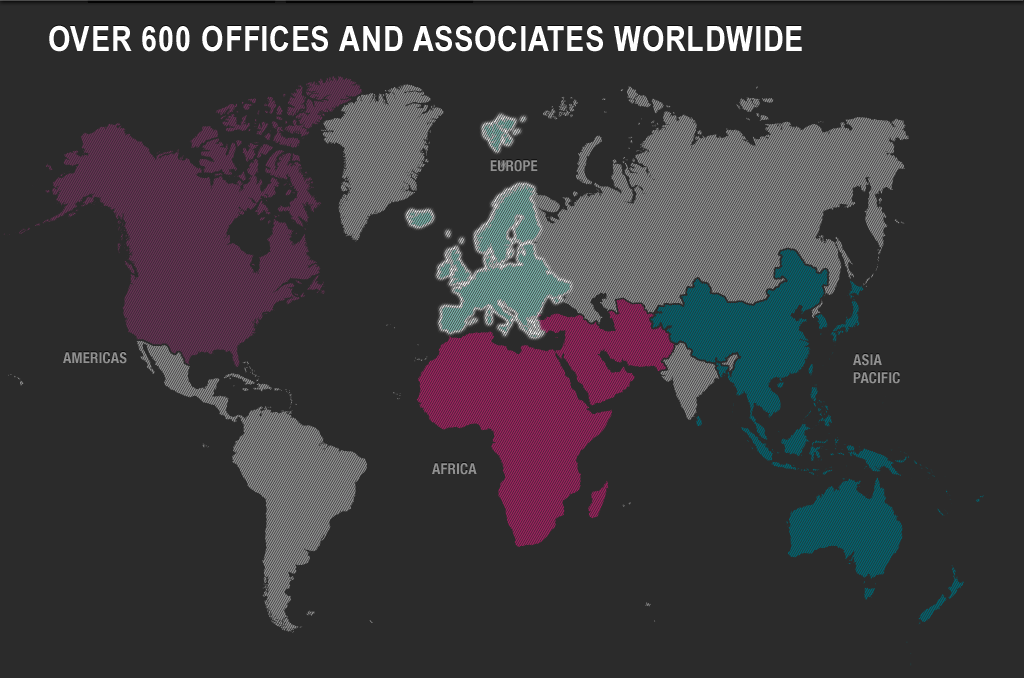
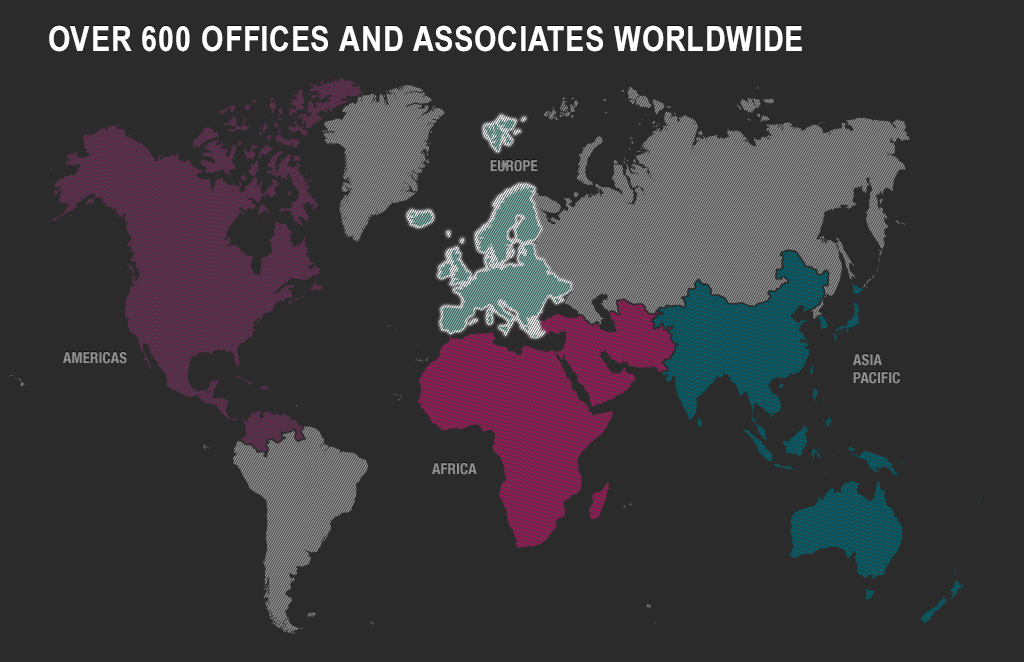
update 2

diff --git a/css/global.css b/css/global.css
@@ -177,6 +177,7 @@ h3 { font-size:20px; padding-bottom:10px; line-height:100%; }
 .indexContentBtnContainer .btn_pm img{margin-left: -36.5px; margin-top: -19px;}
 .indexContentBtnContainer .btn_fm img{margin-left: -36.5px; margin-top: -19px;}
 .indexContentBtnContainer .btn_gcr img{margin-left: -42.5px; margin-top: -19px;}
+.indexContentBtnContainer .btn_acc img{margin-left: -35px;margin-top: -19px;}
 .indexContentBtnContainer .btn_cityBriefings img{margin-left: -24px; margin-top: -19px;}
 .indexContentBtnContainer .btn_researchReports img{margin-left: -26.5px; margin-top: -19px;}
 .indexContentBtnContainer .btn_benchmarking img{margin-left: -37px;margin-top: -11px;}
@@ -359,11 +360,12 @@ h3 { font-size:20px; padding-bottom:10px; line-height:100%; }
 
 /*Asia starts*/
 .globalFootprintContainer #btnAsiaDiv{cursor:pointer;}
-.globalFootprintContainer .btnAsia{top:190px; left:704px; width:142px; height:142px; -webkit-transition:all 0.3s linear; -moz-transition:all 0.3s linear; -o-transition:all 0.3s linear; transition:all 0.3s linear; transition-delay: 0.3s;-moz-transition-delay: 0.3s; /* Firefox 4 */ -webkit-transition-delay: 0.3s; /* Safari and Chrome */ -o-transition-delay: 0.3s; /* Opera */ }
-.globalFootprintContainer .asiaDiv{box-shadow:-3px 0px 6px #000; width:0; height: 192px; overflow:hidden; position:absolute; right: 249px; top: 162px; z-index:10; -webkit-transition:width 0.3s linear; -moz-transition:width 0.3s linear; -o-transition:width 0.3s linear; transition:width 0.3s linear;}
-.globalFootprintContainer #btnAsiaDiv.active .btnAsia{width:212px; height:211px; top:154px; left:665px; -webkit-transition:all 0.3s linear; -moz-transition:all 0.3s linear; -o-transition:all 0.3s linear; transition:all 0.3s linear;}
-.globalFootprintContainer #btnAsiaDiv.active .asiaDiv{width:392px; transition-delay: 0.3s; -moz-transition-delay: 0.3s; /* Firefox 4 */ -webkit-transition-delay: 0.3s; /* Safari and Chrome */-o-transition-delay: 0.3s; /* Opera */}
-.globalFootprintContainer #btnAsiaDiv .countryContent{background:url(../images/whereWePlay/bg_countryDiv_content.png) no-repeat right; width:318px; height: 178px;float: right;padding: 15px 0 0 32px;}
+.globalFootprintContainer .btnAsia{top: 320px;left: 760px; width:142px; height:142px; -webkit-transition:all 0.3s linear; -moz-transition:all 0.3s linear; -o-transition:all 0.3s linear; transition:all 0.3s linear; transition-delay: 0.3s;-moz-transition-delay: 0.3s; /* Firefox 4 */ -webkit-transition-delay: 0.3s; /* Safari and Chrome */ -o-transition-delay: 0.3s; /* Opera */ }
+.globalFootprintContainer .asiaDiv{box-shadow:-3px 0px 6px #000; width:0; height: 192px; overflow:hidden; position:absolute; right: 179px; top: 310px; z-index:10; -webkit-transition:width 0.3s linear; -moz-transition:width 0.3s linear; -o-transition:width 0.3s linear; transition:width 0.3s linear;}
+.globalFootprintContainer #btnAsiaDiv.active .btnAsia{width:212px; height:211px; top: 300px;
+left: 730px; -webkit-transition:all 0.3s linear; -moz-transition:all 0.3s linear; -o-transition:all 0.3s linear; transition:all 0.3s linear;}
+.globalFootprintContainer #btnAsiaDiv.active .asiaDiv{width: 502px;transition-delay: 0.3s; -moz-transition-delay: 0.3s; /* Firefox 4 */ -webkit-transition-delay: 0.3s; /* Safari and Chrome */-o-transition-delay: 0.3s; /* Opera */}
+.globalFootprintContainer #btnAsiaDiv .countryContent{background:url(../images/whereWePlay/bg_countryDiv_content.png) no-repeat right; width: 432px; height: 178px;float: right;padding: 15px 0 0 32px;}
 /*Asia ends*/
 
 /*Europe starts*/
@@ -378,7 +380,7 @@ h3 { font-size:20px; padding-bottom:10px; line-height:100%; }
 /*UK starts*/
 .globalFootprintContainer #btnUKDiv{cursor:pointer;}
 .globalFootprintContainer .btnUK{top:192px; left:355px; width:142px; height:142px; -webkit-transition:all 0.3s linear; -moz-transition:all 0.3s linear; -o-transition:all 0.3s linear; transition:all 0.3s linear; transition-delay: 0.3s;-moz-transition-delay: 0.3s; /* Firefox 4 */ -webkit-transition-delay: 0.3s; /* Safari and Chrome */ -o-transition-delay: 0.3s; /* Opera */ }
-.globalFootprintContainer .ukDiv{box-shadow:-3px 0px 6px #000; width:0; height: 192px; overflow:hidden; position:absolute; left: 439px; top: 158px;z-index:10; -webkit-transition:width 0.3s linear; -moz-transition:width 0.3s linear; -o-transition:width 0.3s linear; transition:width 0.3s linear;}
+.globalFootprintContainer .ukDiv{box-shadow:-3px 0px 6px #000; width:0; height: 192px; overflow:hidden; position:absolute; left: 429px;top: 160px;z-index:10; -webkit-transition:width 0.3s linear; -moz-transition:width 0.3s linear; -o-transition:width 0.3s linear; transition:width 0.3s linear;}
 .globalFootprintContainer #btnUKDiv.active .btnUK{width:212px; height:211px; top:150px; left:335px; -webkit-transition:all 0.3s linear; -moz-transition:all 0.3s linear; -o-transition:all 0.3s linear; transition:all 0.3s linear;}
 .globalFootprintContainer #btnUKDiv.active .ukDiv{width:282px; transition-delay: 0.3s; -moz-transition-delay: 0.3s; /* Firefox 4 */ -webkit-transition-delay: 0.3s; /* Safari and Chrome */-o-transition-delay: 0.3s; /* Opera */}
 .globalFootprintContainer #btnUKDiv .closeBtn{background:url(../images/whereWePlay/btn_close_right.png) no-repeat 15px 90px #2b2b2b; width:42px; height:201px; position:absolute; left:240px !important; top:0;}
@@ -758,7 +760,7 @@ h3 { font-size:20px; padding-bottom:10px; line-height:100%; }
 .trackRecordLogoContainer{height:704px; background:#fff; float:left; width:880px;}
 #logoContent{padding:13px 0 0 8px; height:651px;}
 /*.trackRecordLogoContent{height:664px;}*/
-.trackRecordLogoContent{width:742px; position:relative; height:549px; padding:15px 0 15px 10px; background-color:#fff; float:left;}
+.trackRecordLogoContent{width:742px; position:relative; height:499px; padding:15px 0 15px 10px; background-color:#fff; float:left;}
 
 .trackRecordLogoContent .recordItem{display:block; float:left; margin:0 8px 15px 8px;cursor:pointer; position:relative; width:86px; height:66px;}
 .trackRecordLogoContent .recordItem .showMoveDiv{display:none;}
@@ -891,7 +893,7 @@ body.footprint-map #leftNavPanel{width:275px;}
 .ourTeamLogoContainer .logo_small{top:33px !important; right:21px !important;}
 #teamContent{height:704px;}
 .choiceOfViewContainer {
-    height: 32px;
+    height: 82px;
     margin-right: 35px;
     padding-top: 20px;
     position: relative;
@@ -1296,4 +1298,6 @@ body.footprint-map #leftNavPanel{width:275px;}
     font-size: 13px;
     font-weight: bold;
     color: #FDE651;
+    width: 470px;
+    text-align: left;
 }

diff --git a/where-we-play/global-footprint.html b/where-we-play/global-footprint.html
@@ -49,49 +49,6 @@ content:url("../images/whereWePlay/bg_global_footprint_usa.png") url("../images/
 	<div class="mainContent withBreadcumb" style="position:relative;">
 		<div class="globalFootprintContainer">
 			<div id="mapBtnControl">
-				<div id="btnAustralasiaDiv">
-					<img src="../images/whereWePlay/btn_australasia.png" class="btnAustralasia" alt="" />
-					<div class="australasiaDiv">
-						<div class="closeBtn"></div>
-						<div class="countryContent clearfix">
-							<table cellpadding="0" cellspacing="0" border="0" width="" class="countryContentTable floatLeft">
-								<tr>
-									<td>Adelaide</td>
-								</tr>
-								<tr>
-									<td>Auckland</td>
-								</tr>
-								<tr>
-									<td>Brisbane</td>
-								</tr>
-								<tr>
-									<td>Canberra</td>
-								</tr>
-								<tr>
-									<td>Gold Coast</td>
-								</tr>
-								<tr>
-									<td><a href="apac-footprint-city-guide/melbourne.html">Melbourne</a></td>
-								</tr>
-							</table>
-							
-							<table cellpadding="0" cellspacing="0" border="0" width="" class="countryContentTable floatLeft">
-								<tr>
-									<td>Perth </td>
-								</tr>
-								<tr>
-									<td>Sunshine<br />Coast</td>
-								</tr>
-								<tr>
-									<td><a href="apac-footprint-city-guide/sydney.html">Sydney</a></td>
-								</tr>
-								<tr>
-									<td>Wellington</td>
-								</tr>
-							</table>
-						</div>
-					</div>
-				</div>
 				<div id="btnSouthAfricaDiv">
 					<img src="../images/whereWePlay/btn_south_africa.png" class="btnSouthAfrica" alt="" />
 					<div class="southAfricaDiv">
@@ -123,71 +80,53 @@ content:url("../images/whereWePlay/bg_global_footprint_usa.png") url("../images/
 						</div>
 					</div>
 				</div>
-				<div id="btnIndiaDiv">
-					<img src="../images/whereWePlay/btn_india.png" class="btnIndia" alt="" />
-					<div class="indiaDiv">
-						<div class="closeBtn"></div>
-						<div class="countryContent">
-							<table cellpadding="0" cellspacing="0" border="0" width="" class="countryContentTable">
-								<tr>
-									<td>Bangalore</td>
-								</tr>
-								<tr>
-									<td>Chennai</td>
-								</tr>
-								<tr>
-									<td>Dehli</td>
-								</tr>
-								<tr>
-									<td>Mumbai</td>
-								</tr>
-								<tr>
-									<td>Pune</td>
-								</tr>
-							</table>
-						</div>
-					</div>
-				</div>
 				<div id="btnAsiaDiv">
 					<img src="../images/whereWePlay/btn_asia.png" class="btnAsia" alt="" />
 					<div class="asiaDiv">
 						<div class="closeBtn"></div>
 						<div class="countryContent">
 							<table cellpadding="0" cellspacing="0" border="0" width="" class="countryContentTable">
-								<tr>
+								<tbody><tr>
+								    <td>Australia</td>
+								    <td>Malaysia</td>
+								    <td>Thailand</td>
+								    </tr>
+								  <tr>
 								    <td><a href="apac-footprint-city-guide/beijing.html">China</a></td>
-								    <td>Philippines</td>
-								  </tr>
+								    <td>Myanmar</td>
+								    <td>Vietnam</td>
+							      </tr>
 								  <tr>
 								    <td><a href="apac-footprint-city-guide/hk.html">Hong Kong</a></td>
-								    <td><a href="apac-footprint-city-guide/singapore.html">Singapore</a></td>
-								  </tr>
+								    <td>New Zealand</td>
+								    <td>&nbsp;</td>
+							      </tr>
+								  <tr>
+								    <td>India</td>
+								    <td>Philippines</td>
+								    <td>&nbsp;</td>
+							      </tr>
 								  <tr>
 								    <td>Indonesia</td>
-								    <td><a href="apac-footprint-city-guide/seoul/index.html">South Korea</a></td>
-								  </tr>
+								    <td><a href="apac-footprint-city-guide/singapore.html">Singapore</a></td>
+								    <td>&nbsp;</td>
+							      </tr>
 								  <tr>
 								    <td><a href="apac-footprint-city-guide/tokyo.html">Japan</a></td>
-								    <td>Taiwan</td>
-								  </tr>
+								    <td><a href="apac-footprint-city-guide/seoul/index.html">South Korea</a></td>
+								    <td>&nbsp;</td>
+							      </tr>
 								  <tr>
 								    <td>Macau</td>
-								    <td>Thailand</td>
-								  </tr>
-								  <tr>
-								    <td>Malaysia</td>
-								    <td>Vietnam</td>
-								  </tr>
-								  <tr>
-								    <td>Myanmar</td>
+								    <td>Taiwan</td>
 								    <td>&nbsp;</td>
-								  </tr>
-							</table>
+							      </tr>
+							</tbody></table>
 						</div>
 					</div>
 				</div>
 				<div id="btnEuropeDiv">
-					<img src="../images/whereWePlay/btn_europe_lrg.png" class="btnEurope" alt="" />
+					<img src="../images/whereWePlay/btn_europe.png" class="btnEurope" alt="" />
 					<div class="europeDiv">
 						<div class="closeBtn"></div>
 						<div class="countryContent">
@@ -407,8 +346,8 @@ function initBackgroundChange(option)
 //initBackgroundChange();
 initMap('btnEuropeDiv', 1);
 initMap('btnSouthAfricaDiv', 3);
-initMap('btnAustralasiaDiv', 2);
-initMap('btnIndiaDiv', 2);
+/*initMap('btnAustralasiaDiv', 2);
+initMap('btnIndiaDiv', 2);*/
 initMap('btnAsiaDiv', 2);
 initMap('btnUKDiv', 1);
 initMap('btnUSADiv', 0);

diff --git a/our-research/index.html b/our-research/index.html
@@ -26,7 +26,7 @@ pageContactArray = [{contactPersonImg:"images/reports/img_simon_smith.jpg", cont
 	</script>
 	<div class="mainContent withBreadcumb" style="background:url(../images/ourResearch/bg_landing.png) no-repeat;height: 608px;">
 		<img src="../images/ourResearch/img_landing.png" alt="" style="padding:77px 0 0 292px;"/>
-		<div class="indexPageContent">Savills commercial property research teams produce industry and sector reports for all those concerned with the commercial property market. <span>Our publications offer practical guidance to create a competitive advantage, and help our clients make well-informed real estate decisions and realise business goals.</span> In this section you will find the latest industry and sector reports from around the world. Through this section you will have direct access to Savills Research contacts.</div>
+		<div class="indexPageContent">WOS advises a huge spectrum of industries and sectors for all those concerned with the commercial property market. <span>Our publications offer practical guidance to create a competitive advantage, and help our clients make well-informed real estate decisions and realise business goals.</span> In this section you will find the latest industry and sector reports from around the world. Through this section you will have direct access to Savills Research contacts.</div>
 		<div class="indexContentBtnContainer">
 			<div class="clearfix" style="margin:0 auto; width:490px;">
 				<a href="city-briefings/apac/beijing-briefing.html" class="indexBtn btn_cityBriefings" style="margin-right:64px;"><img src="../images/ourResearch/btn_index_cityBriefings.png" alt="City Briefings" /></a>

diff --git a/where-we-play/index.html b/where-we-play/index.html
@@ -24,7 +24,7 @@
 	</script>
 	<div class="mainContent withBreadcumb" style="background:url(../images/whereWePlay/where_we_are_landing.jpg) no-repeat 0 6px;height: 638px;">
 		<img src="../images/whereWePlay/img_landing.png" alt="" style="padding:77px 0 0 364px;"/>
-		<div class="indexPageContent" style="width:610px; padding:40px 0 0 215px;">Savills and associates employ <span>26,000 people in 600 offices globally; our reach is unsurpassed</span>. We have an international network throughout the Americas, the UK, Continental Europe, Asia Pacific, Africa and the Middle East. This section offers you access to our global footprint, detailed research briefings and city-by-city leasing dynamics.</div>
+		<div class="indexPageContent" style="width:610px; padding:40px 0 0 215px;">Savills and associates employ <span>27,000 people in 600 offices globally; our reach is unsurpassed</span>. We have an international network throughout the Americas, the UK, Continental Europe, Asia Pacific, Africa and the Middle East. This section offers you access to our global footprint, detailed research briefings and city-by-city leasing dynamics.</div>
 		<div class="indexContentBtnContainer">
 			<div class="clearfix" style="margin:0 auto; width:410px;">
 				<a href="global-footprint.html" class="indexBtn btn_global"><img src="../images/whereWePlay/btn_index_global.png" alt="Global" /></a>

diff --git a/our-services/index.html b/our-services/index.html
@@ -32,10 +32,11 @@
 				<area shape="rect" coords="465,1,590,259" href="global-corporate-relocations/index.html" />
 				<area shape="rect" coords="615,1,744,259" href="" />
 			</map>-->
-			<div class="clearfix" style="margin:0 auto; width:420px;">
+			<div class="clearfix" style="margin:0 auto; width: 560px;">
 				<a href="transaction-management-os/index.html" class="indexBtn btn_tm"><img src="../images/ourService/btn_index_tm.png" alt="Transaction Management" /></a>
 				<a href="project-management-os/index.html" class="indexBtn btn_pm"><img src="../images/ourService/btn_index_pm.png" alt="Project Management" /></a>
-				<a href="global-corporate-relocations/index.html" class="indexBtn btn_gcr last"><img src="../images/ourService/btn_index_gcr.png" alt="Global Corporate Relocations" /></a>
+				<a href="global-corporate-relocations/index.html" class="indexBtn btn_gcr"><img src="../images/ourService/btn_index_gcr.png" alt="Global Corporate Relocations" /></a>
+				<a href="javascript:;" class="indexBtn btn_acc last"><img src="../images/ourService/btn_index_acc.png" alt="Account Management" /></a>
 			</div>
 		</div>
 		<div id="overlay"></div>

diff --git a/our-clients/index.html b/our-clients/index.html
@@ -23,7 +23,7 @@
 	</script>
 	<div class="mainContent withBreadcumb" style="background:url(../images/ourClients/our-clients-landing.jpg) no-repeat 0 6px;height: 638px">
 		<img src="../images/ourClients/img_intro.png" alt="" style="padding:77px 0 0 330px;"/>
-		<div class="indexPageContent">SCS continuously delivers results to our <span>global, regional and local clients across all sectors</span>. We have the privilege of working with some of the most well-known companies in the world, and we strive to work collaboratively with every client to achieve results they can measure.</div>
+		<div class="indexPageContent">WOS continuously delivers results to our <span>global, regional and local clients across all sectors</span>. We have the privilege of working with some of the most well-known companies in the world, and we strive to work collaboratively with every client to achieve results they can measure.</div>
 		<div class="indexContentBtnContainer">
 			<!--<img src="../images/ourClients/img_two_btn.png" alt="" border="0" usemap="#Map" />
 			<map name="Map" id="Map">

diff --git a/js/global.js b/js/global.js
@@ -4121,8 +4121,11 @@ function genTopNav(){
 	str +='<div class="subSectionItem">';
 	str +='<a class="page-class-73 page-class-74 page-class-75 page-class-76 page-class-77 page-class-78 page-class-79 page-class-80 page-class-81 page-class-82" href="' + homeHref + 'our-services/project-management-os/index.html">Project<br />Management</a>';
 	str +='</div>';
-	str +='<div class="subSectionItem lastItem">';
+	str +='<div class="subSectionItem">';
 	str +='<a class="page-class-90 page-class-92 page-class-93 page-class-94 page-class-95" href="' + homeHref + 'our-services/global-corporate-relocations/index.html">Global Corporate<br />Relocations</a>';
+	str +='</div>';
+	str +='<div class="subSectionItem lastItem">';
+	str +='<a href="javascript:;">Account<br />Management</a>';
 	str +='</div>';
 	str +='</div>';
 	str +='</div>';

diff --git a/our-clients/track-record/tr-europe/index.html b/our-clients/track-record/tr-europe/index.html
@@ -133,7 +133,7 @@ content:url("../../../images/trackRecord/ams_overlay.png") url("../../../images/
 			</div>
 		</div>
 		<div class="choiceOfViewContainer">
-			<p id="private-note">Private & confidential</p>
+			<p id="private-note">Attention! The “Our Clients” section is confidential, proprietary and for internal use only.  This section should not be reproduced, copied, distributed, displayed, transmitted or disclosed to any third party, in any form or by any means, without express prior written permission of Savills.</p>
 			<a href="../tr-europe/index.html" class="btn_grid_view active">Grid View</a>
 			<a href="../tr-europe/list.html" class="btn_list_view ">List View</a>
 		</div>

diff --git a/our-clients/track-record/tr-europe/list.html b/our-clients/track-record/tr-europe/list.html
@@ -132,7 +132,7 @@ content:url("../../../images/trackRecord/ams_overlay.png") url("../../../images/
 			</div>
 		</div>
 		<div class="choiceOfViewContainer">
-			<p id="private-note">Private & confidential</p>
+			<p id="private-note">Attention! The “Our Clients” section is confidential, proprietary and for internal use only.  This section should not be reproduced, copied, distributed, displayed, transmitted or disclosed to any third party, in any form or by any means, without express prior written permission of Savills.</p>
 			<a href="../tr-europe/index.html" class="btn_grid_view ">Grid View</a>
 			<a href="../tr-europe/list.html" class="btn_list_view active">List View</a>
 		</div>

diff --git a/our-clients/track-record/tr-apac/index.html b/our-clients/track-record/tr-apac/index.html
@@ -132,7 +132,7 @@ content:url("../../../images/trackRecord/logo_abInBev_overlay.png") url("../../.
 			</div>
 		</div>
 		<div class="choiceOfViewContainer">
-			<p id="private-note">Private & confidential</p>
+			<p id="private-note">Attention! The “Our Clients” section is confidential, proprietary and for internal use only.  This section should not be reproduced, copied, distributed, displayed, transmitted or disclosed to any third party, in any form or by any means, without express prior written permission of Savills.</p>
 			<a href="../tr-apac/index.html" class="btn_grid_view active">Grid View</a>
 			<a href="../tr-apac/list.html" class="btn_list_view ">List View</a>
 		</div>

diff --git a/our-clients/track-record/tr-apac/list.html b/our-clients/track-record/tr-apac/list.html
@@ -131,7 +131,7 @@ content:url("../../../images/trackRecord/logo_abInBev_overlay.png") url("../../.
 			</div>
 		</div>
 		<div class="choiceOfViewContainer">
-			<p id="private-note">Private & confidential</p>
+			<p id="private-note">Attention! The “Our Clients” section is confidential, proprietary and for internal use only.  This section should not be reproduced, copied, distributed, displayed, transmitted or disclosed to any third party, in any form or by any means, without express prior written permission of Savills.</p>
 			<a href="../tr-apac/index.html" class="btn_grid_view">Grid View</a>
 			<a href="../tr-apac/list.html" class="btn_list_view active">List View</a>
 		</div>
